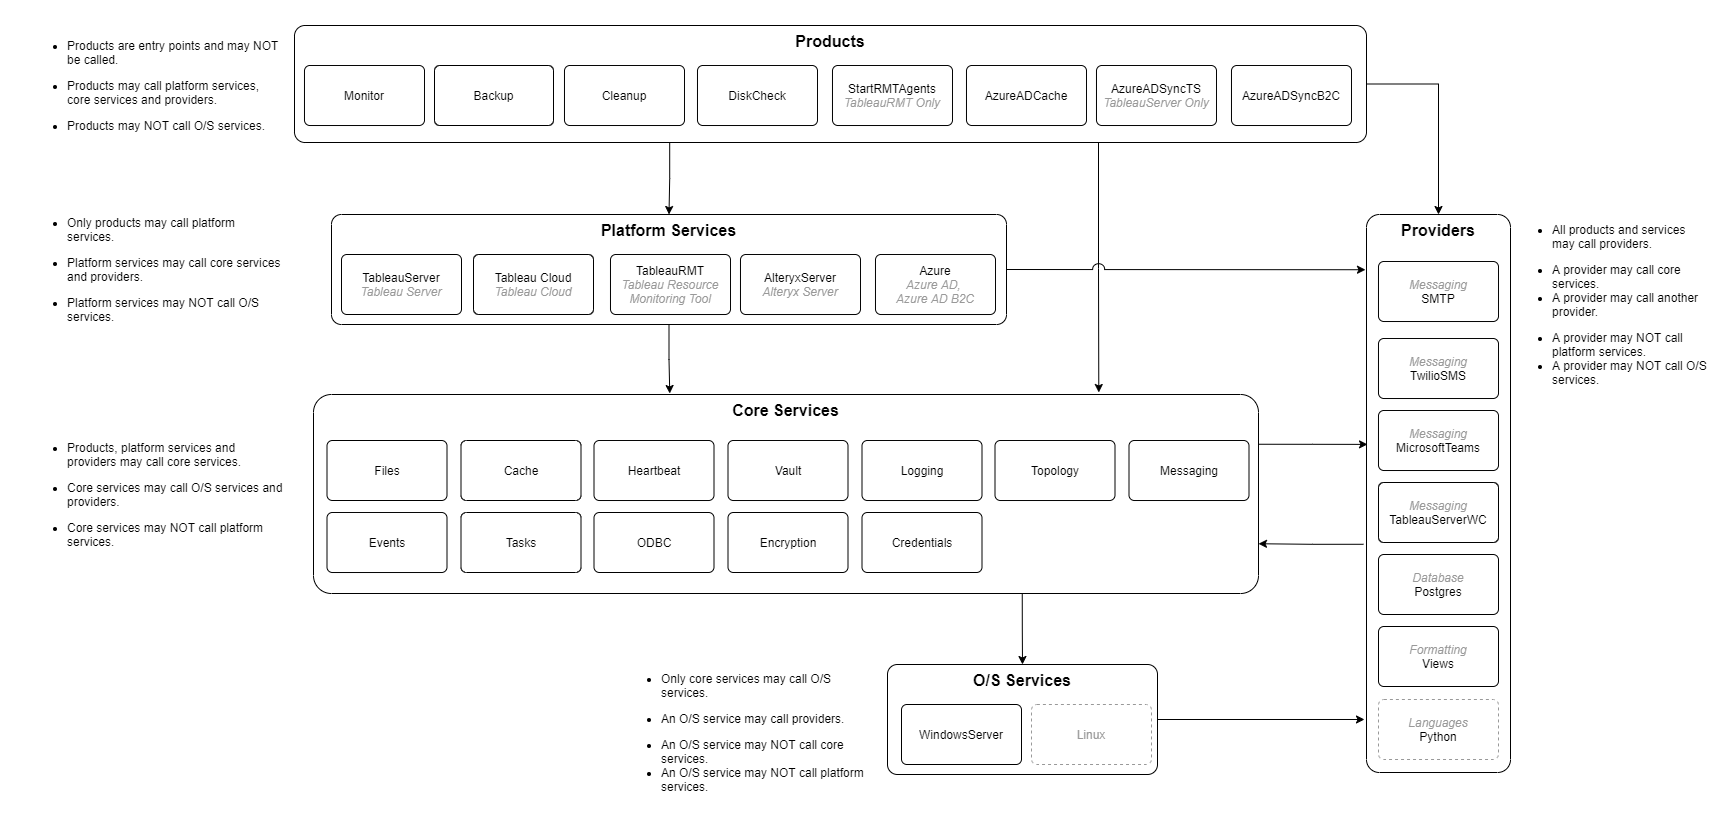
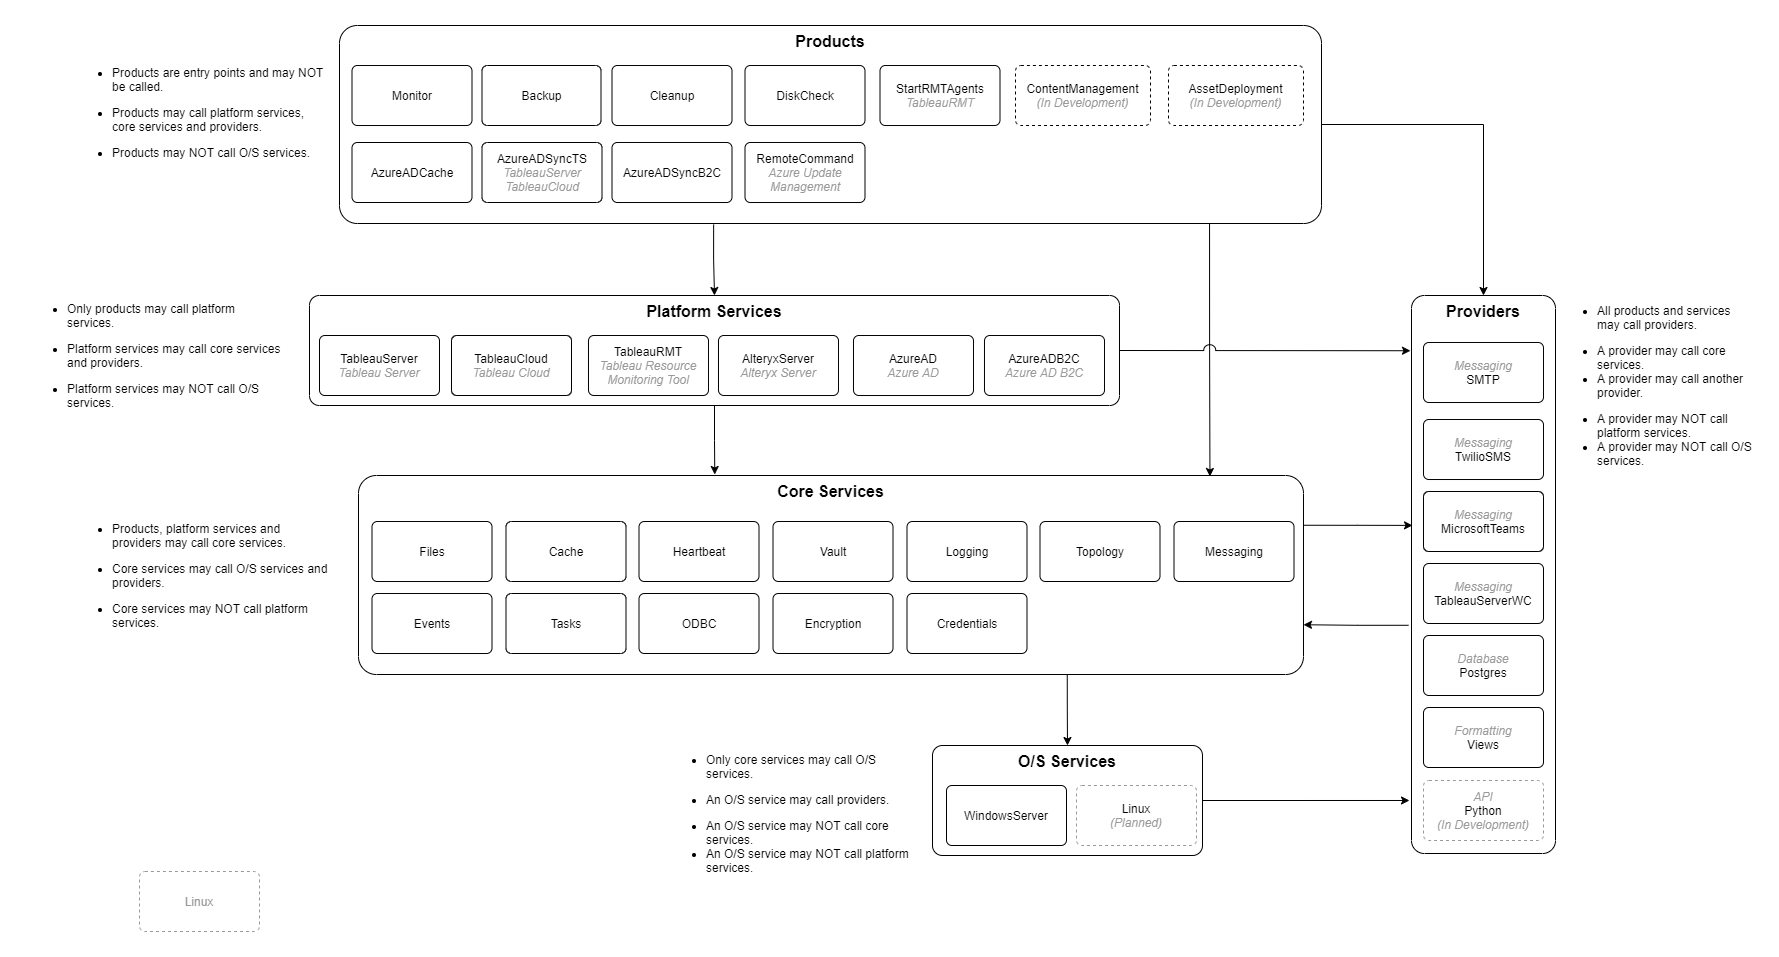
readme update for arch diagram

diff --git a/README.md b/README.md
@@ -1,20 +1,18 @@
 # OVERWATCH
-Overwatch is a PowerShell application which automates the monitoring and management of software platforms and systems. 
-
-Core functionality includes monitoring of platforms and their host systems, alerting via messaging providers, backup management, storage management, support for platforms in Azure AD and Azure AD B2C tenants, as well as integration with Azure Update Management.
+Overwatch is a PowerShell application which automates the monitoring and management of software platforms and systems.
 
 || Supported
 |-|-
 | OS | Windows Server
-| Platforms | Tableau Server, Tableau Resource Monitoring Tool, Alteryx Server
-| Products | Monitor, Backup, Cleanup, DiskCheck, AzureADCache, AzureADSyncTS, AzureADSyncB2C, StartRMTAgents
-| Providers | MicrosoftTeams, TwilioSMS, SMTP
+| Platforms | Tableau Server, Tableau Cloud, Tableau Resource Monitoring Tool, Alteryx Server, Azure AD, Azure AD B2C
+| Products | Monitor, Backup, Cleanup, DiskCheck, AzureADCache, AzureADSyncTS, AzureADSyncB2C, StartRMTAgents, RemoteCommand, ContentManagement, AssetDeployment
+| Providers | MicrosoftTeams, TwilioSMS, SMTP, TableauServerWC, ODBC, Postgres, Views
 
 _Overwatch is designed for extensibility.  Support for additional operating systems and software platforms can be added to the Overwatch service layer, and new functionality can be added by creating new products and providers._
 
 ## Architecture
 
-
+![Overwatch Architecture](https://github.com/dwalker3rd/Overwatch/blob/main/docs/img/overwatch_architecture.png?raw=true)
 
 ## Contributions
 
